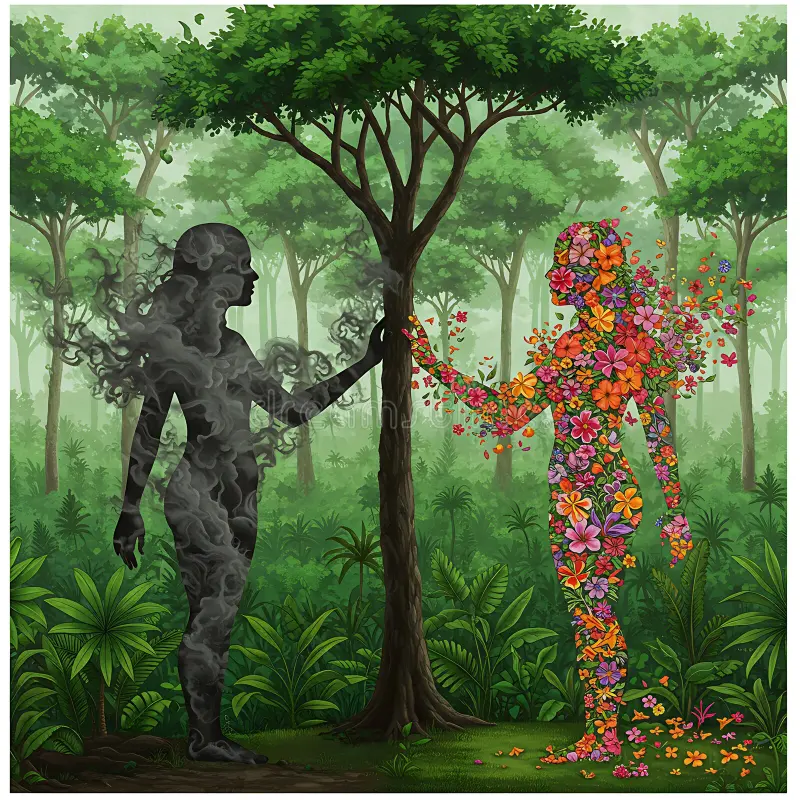
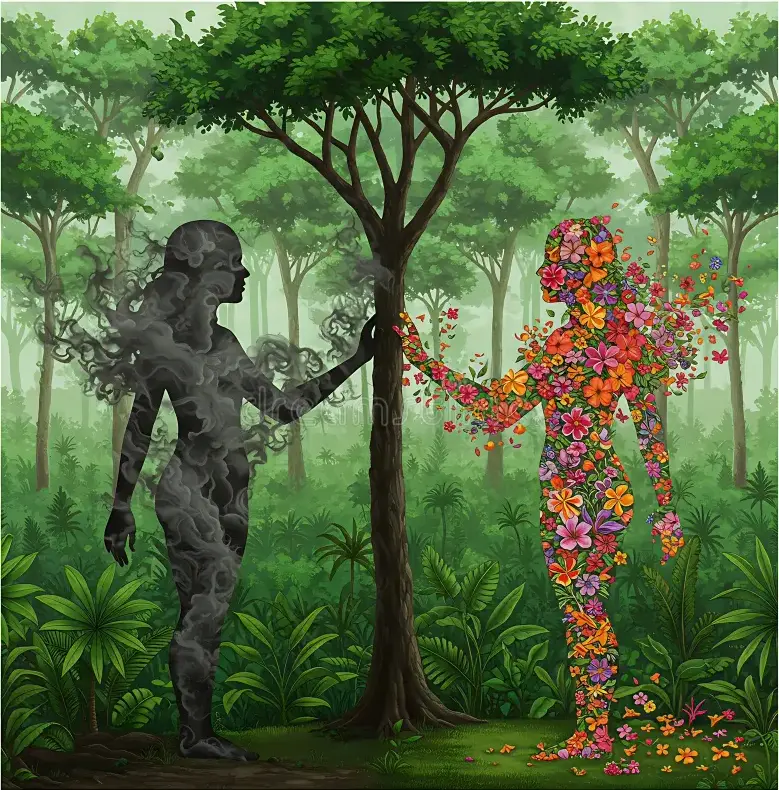
Cambios solicitados por sonia 22 06 2026

diff --git a/src/styles/global.css b/src/styles/global.css
@@ -1,28 +1,32 @@
 @import "tailwindcss"; /* Tailwind import */
 
 :root {
-  /* Simplified Nordic palette */
-  --color-primary: #87B37A;
-  --color-secondary: #C9A6C6;
+  /* Nordic palette - Warm wellness tones */
+  --color-primary: #7DAA6F;
+  --color-secondary: #B89AB4;
   --color-accent: var(--color-secondary);
   --color-accent-dark: var(--color-primary);
   --color-violet-light: var(--color-secondary);
   --color-violet-medium: var(--color-secondary);
-  --color-background: ##B37987;
+  --color-background: #FAFAF7;
   --color-text: #2D3A35;
   --color-text-light: #FFFFFF;
   --font-heading: 'Inter', sans-serif;
   --font-body: 'IBM Plex Sans', sans-serif;
-  --nordic-primary: #87B37A;
-  --nordic-secondary: #C9A6C6;
-  --nordic-white: #FFFFFF;
-  --nordic-background: #FFFFFF;
-  --nordic-ice: #F2F5F1;
-  --nordic-frost: #F5F2F7;
-  --nordic-shadow: rgba(44, 62, 80, 0.979);
-  --nordic-violet: #C9A6C6;
-  --nordic-mist: #F7F7F7;
+  --nordic-primary: #7DAA6F;
+  --nordic-secondary: #B89AB4;
+  --nordic-white: #FAFAF7;
+  --nordic-background: #FAFAF7;
+  --nordic-ice: #EFF3ED;
+  --nordic-frost: #F0ECF3;
+  --nordic-shadow: #2D3A35;
+  --nordic-violet: #9B7FA0;
+  --nordic-mist: #F5F3F0;
   --nordic-text: #2D3A35;
+  --nordic-header-bg: #E8EDE6;
+  --nordic-header-border: #D4DDD1;
+  --nordic-card: #FFFFFF;
+  --nordic-card-hover: #F8FAF7;
 }
 
 @layer base {
@@ -97,10 +101,9 @@
   bottom: 15%;
   width: 300px;
   height: 300px;
-  background-color: rgba(135, 179, 122, 0.18);
+  background-color: rgba(125, 170, 111, 0.18);
   border-radius: 50%;
   filter: blur(80px);
-  opacity: 0.3;
   pointer-events: none;
 }
 
@@ -116,10 +119,9 @@
   bottom: 15%;
   width: 300px;
   height: 300px;
-  background-color: rgba(135, 179, 122, 0.18);
+  background-color: rgba(125, 170, 111, 0.18);
   border-radius: 50%;
   filter: blur(80px);
-  opacity: 0.3;
   pointer-events: none;
 }
 
@@ -134,12 +136,12 @@
   border-radius: 9999px;
   font-weight: 500;
   transition: all 0.3s ease;
-  box-shadow: 0 4px 15px rgba(44, 62, 80, 0.12);
+  box-shadow: 0 4px 15px rgba(45, 58, 53, 0.12);
 }
 
 .btn-pill:hover {
   transform: translateY(-2px);
-  box-shadow: 0 6px 25px rgba(44, 62, 80, 0.16);
+  box-shadow: 0 6px 25px rgba(45, 58, 53, 0.16);
 }
 
 .btn-pill-secondary {
@@ -149,7 +151,7 @@
 }
 
 .btn-pill-secondary:hover {
-  box-shadow: 0 6px 25px rgba(44, 62, 80, 0.12);
+  box-shadow: 0 6px 25px rgba(45, 58, 53, 0.12);
 }
 
 /* CV Section */
@@ -175,7 +177,7 @@
   display: flex;
   gap: 1rem;
   padding: 1rem 0;
-  border-bottom: 1px solid rgba(168, 197, 181, 0.3);
+  border-bottom: 1px solid rgba(125, 170, 111, 0.3);
 }
 
 .cv-item:last-child {